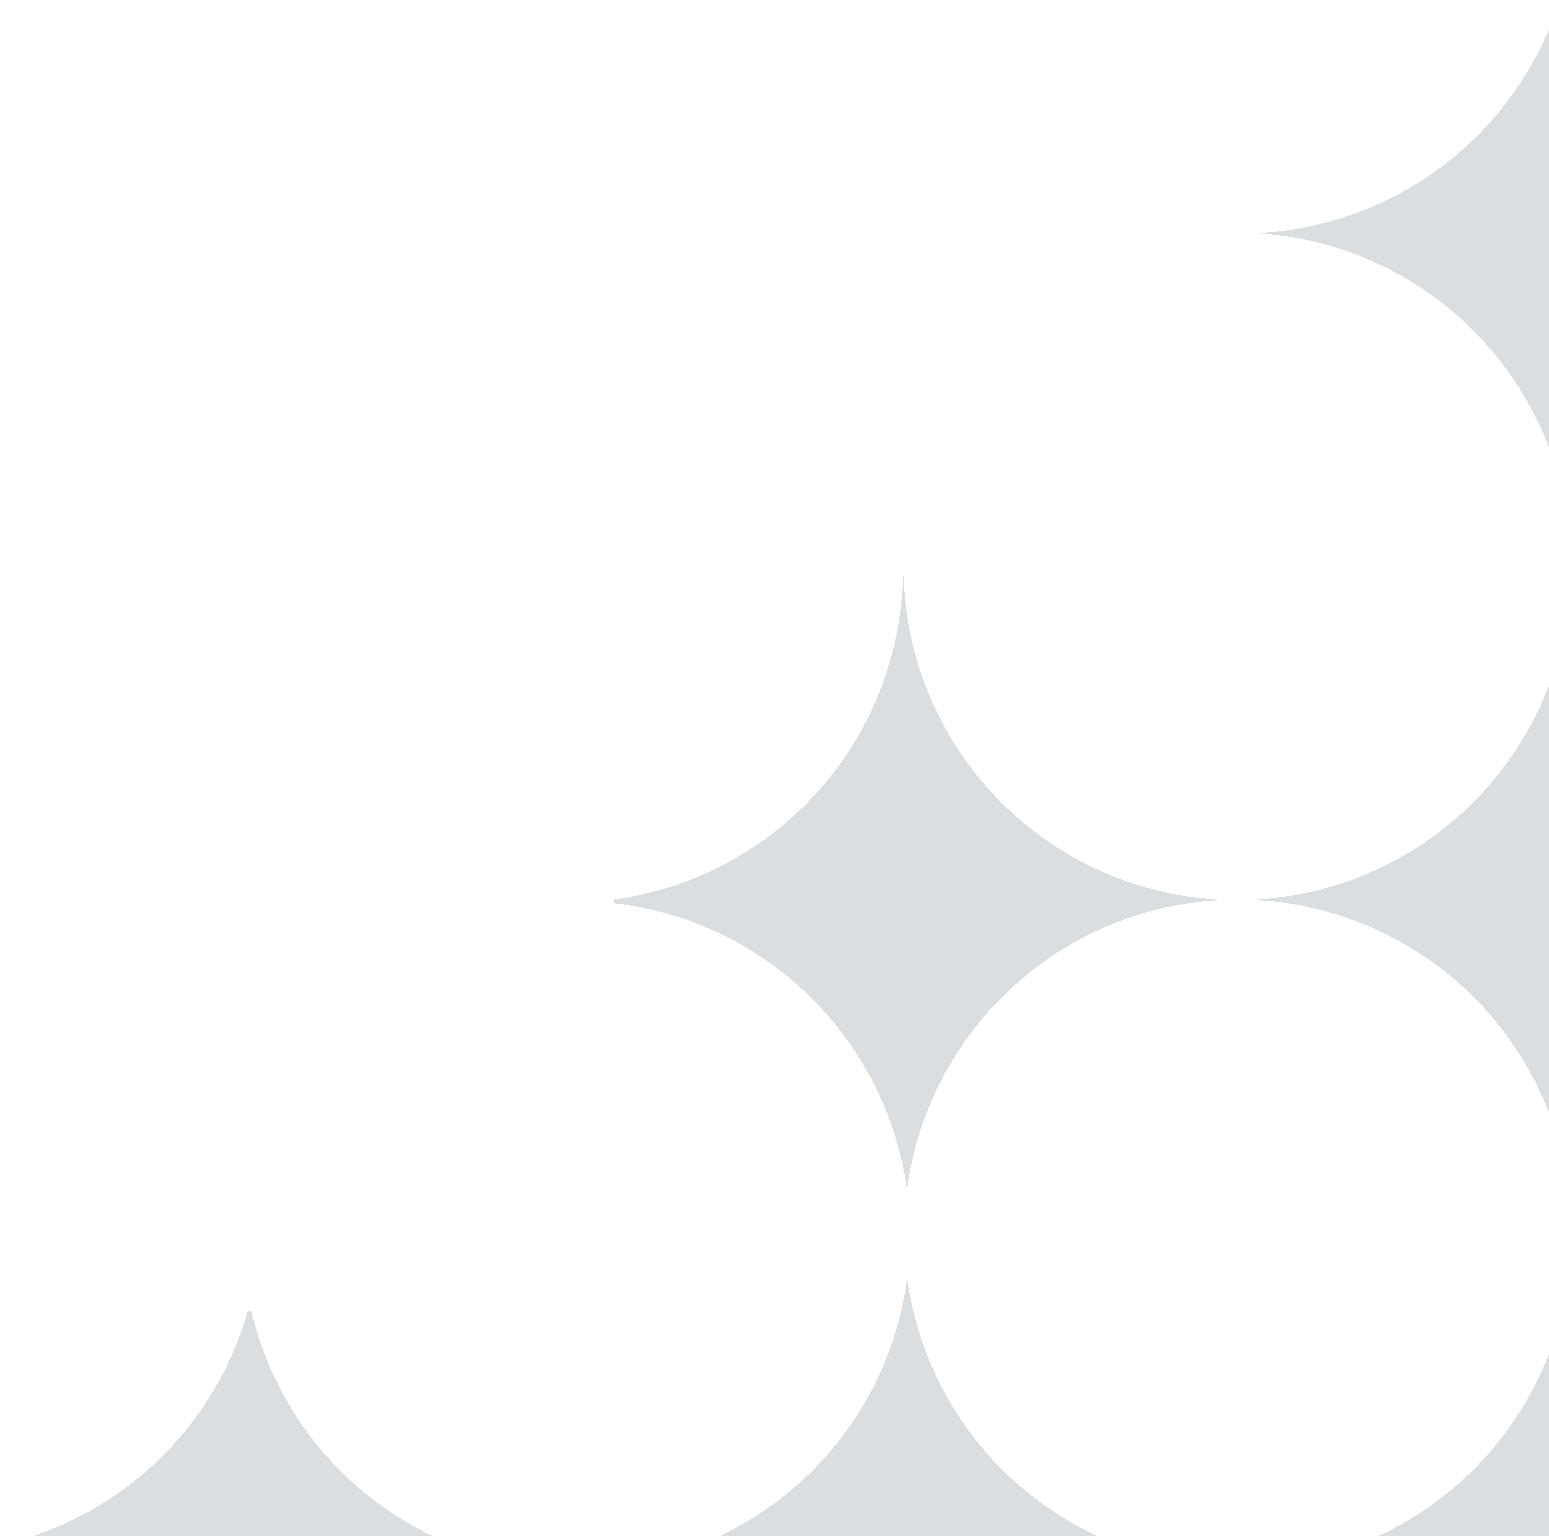
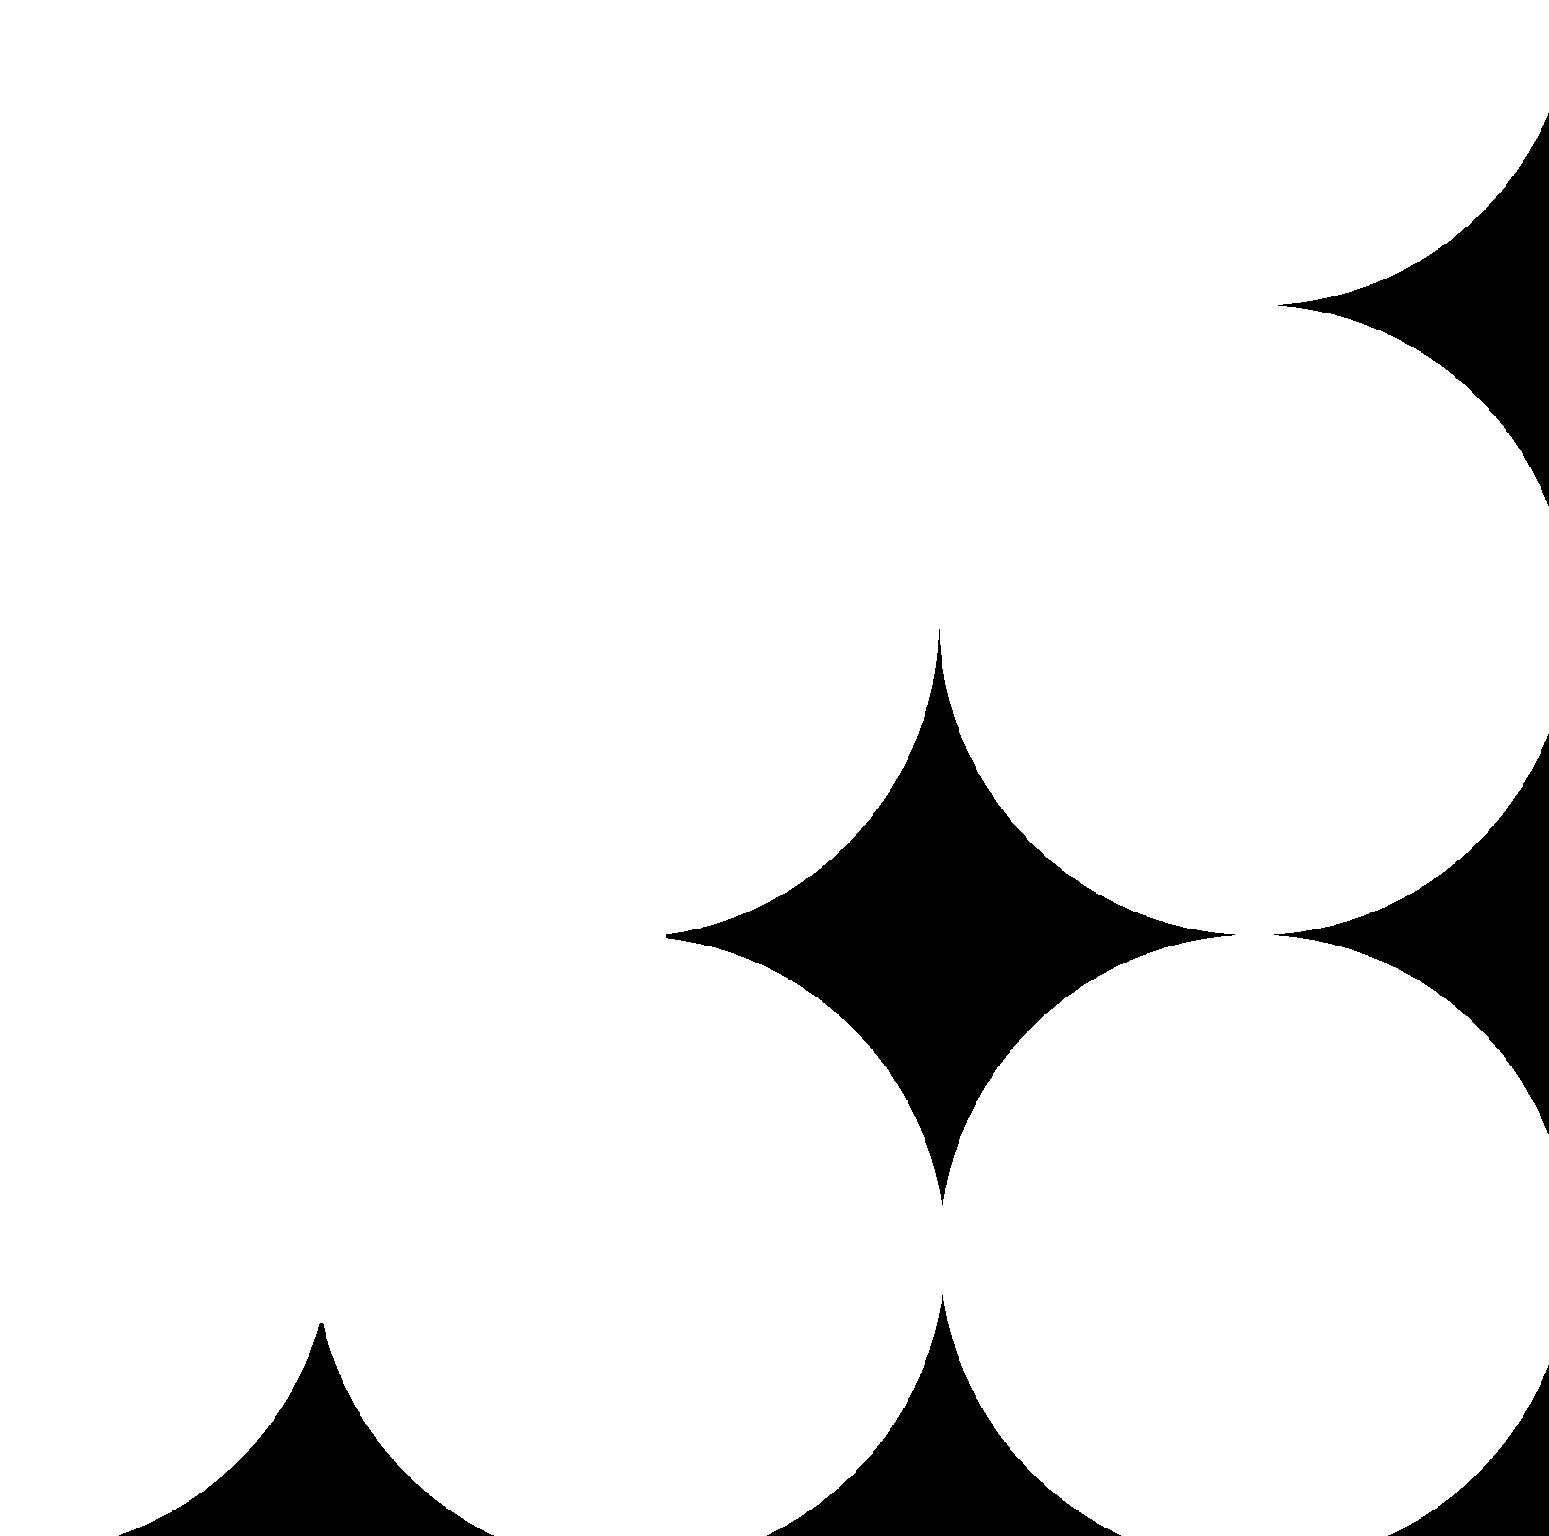
style: add diamond overlay to homepage; remove layout tailwind garbage; add basic design to error page

diff --git a/app/layout.tsx b/app/layout.tsx
@@ -20,12 +20,12 @@ export default function RootLayout({
     <html lang="en" suppressHydrationWarning>
       <body className={inter.className}>
         <Providers>
-          <main className="h-screen bg-white dark:bg-zinc-900 dark:text-akairosu-white flex">
+          <div className="h-screen bg-white dark:bg-zinc-900 dark:text-akairosu-white flex">
             <GlobalNav />
             <div className="flex flex-col">
               <div className="invisible lg:visible w-screen h-10 dark:h-8 border-b-4 bg-zinc-200 dark:bg-akairosu-white border-zinc-300 dark:border-akairosu-orange"></div>
-              <div className="lg:pl-80 w-full h-full flex">
-                <div className="mx-auto px-2 pt-20 lg:p-0 flex">
+              <div className="lg:pl-80 w-full h-full">
+                <div className="px-2 pt-20 lg:p-0 w-full h-full">
                   {/* had to add lg:left-auto to make it work both sides */}
                   <ThemeChanger className="fixed lg:top-14 lg:right-6 lg:left-auto left-3 top-3 z-10" />
                   {children}
@@ -33,7 +33,7 @@ export default function RootLayout({
               </div>
               <div className="bottom-0 invisible lg:visible w-screen h-10 dark:h-8 bg-zinc-200 dark:bg-akairosu-white border-t-4 border-zinc-300 dark:border-akairosu-orange"></div>
             </div>
-          </main>
+          </div>
         </Providers>
       </body>
     </html>

diff --git a/ui/global-nav.tsx b/ui/global-nav.tsx
@@ -22,7 +22,7 @@ export function GlobalNav() {
   const close = () => setIsOpen(false);
 
   return (
-    <nav className="fixed top-0 z-10 flex w-full flex-col pl-4 lg:bottom-0 lg:z-auto lg:w-80 lg:border-b-0">
+    <nav className="fixed top-0 z-10 flex w-full flex-col pl-4 lg:bottom-0 lg:z-auto lg:w-80">
       <div className="flex flex-col h-14 items-center pt-20 pb-12 mx-4 lg:h-auto">
         <Link
           href="/"
@@ -85,7 +85,7 @@ export function GlobalNav() {
               <GlobalNavItem key={item.slug} item={item} close={close} />
             ))}
           </div>
-          <Link className="absolute bottom-14 hover:text-akairosu-orange" href="mailto:akairosu.arts@gmail.com">
+          <Link className="absolute bottom-14 dark:bottom-10 hover:text-akairosu-orange" href="mailto:akairosu.arts@gmail.com">
             <div className="flex gap-2">
               <svg xmlns="http://www.w3.org/2000/svg" fill="none" viewBox="0 0 24 24" strokeWidth={1.5} stroke="currentColor" className="w-6 h-6">
                 <path strokeLinecap="round" strokeLinejoin="round" d="M21.75 6.75v10.5a2.25 2.25 0 01-2.25 2.25h-15a2.25 2.25 0 01-2.25-2.25V6.75m19.5 0A2.25 2.25 0 0019.5 4.5h-15a2.25 2.25 0 00-2.25 2.25m19.5 0v.243a2.25 2.25 0 01-1.07 1.916l-7.5 4.615a2.25 2.25 0 01-2.36 0L3.32 8.91a2.25 2.25 0 01-1.07-1.916V6.75" />

diff --git a/app/error.tsx b/app/error.tsx
@@ -15,17 +15,19 @@ export default function Error({
   }, [error]);
 
   return (
-    <div className="flex flex-col space-y-4">
-      <h2>Something went wrong!</h2>
-      <button
-        className="bg-transparent transition-colors hover:bg-neutral-800/30 text-black font-semibold hover:text-white py-2 px-4 border border-black rounded"
-        onClick={
-          // Attempt to recover by trying to re-render the segment
-          () => reset()
-        }
-      >
-        Try again
-      </button>
-    </div>
+    <main className="flex flex-col place-content-center h-full p-4">
+      <div className="grid place-content-center gap-4">
+        <div className="text-xl">Something went wrong!</div>
+        <button
+          className="transition-colors bg-transparent hover:bg-akairosu-brown text-zinc-900 dark:text-akairosu-white font-semibold hover:text-akairosu-white py-2 px-4 border border-zinc-900 dark:border-akairosu-white dark:hover:border-none rounded"
+          onClick={
+            // Attempt to recover by trying to re-render the segment
+            () => reset()
+          }
+        >
+          Try again
+        </button>
+      </div>
+    </main>
   );
 }

diff --git a/app/page.tsx b/app/page.tsx
@@ -8,13 +8,20 @@ export const metadata: Metadata = {
 
 export default function Home() {
   return (
-    <div className="relative flex place-items-center">
-      <Image
-        src="/rabbit.png"
-        alt="Rabbit"
-        width={214}
-        height={300}
-      />
-    </div>
+    <main className="relative h-full">
+      <div>
+        <Image
+          src="/diamonds.png"
+          alt="Diamond Overlay"
+          className="absolute right-0 pt-10"
+          style={{objectFit: "contain", 
+                  objectPosition: "right bottom",
+                  filter: "invert(94%) sepia(6%) saturate(132%) hue-rotate(201deg) brightness(89%) contrast(90%)"}}
+                  // filter: "invert(70%) sepia(43%) saturate(620%) hue-rotate(333deg) brightness(92%) contrast(84%)"}}
+          fill
+        />
+        
+      </div>
+    </main>
   )
 }
